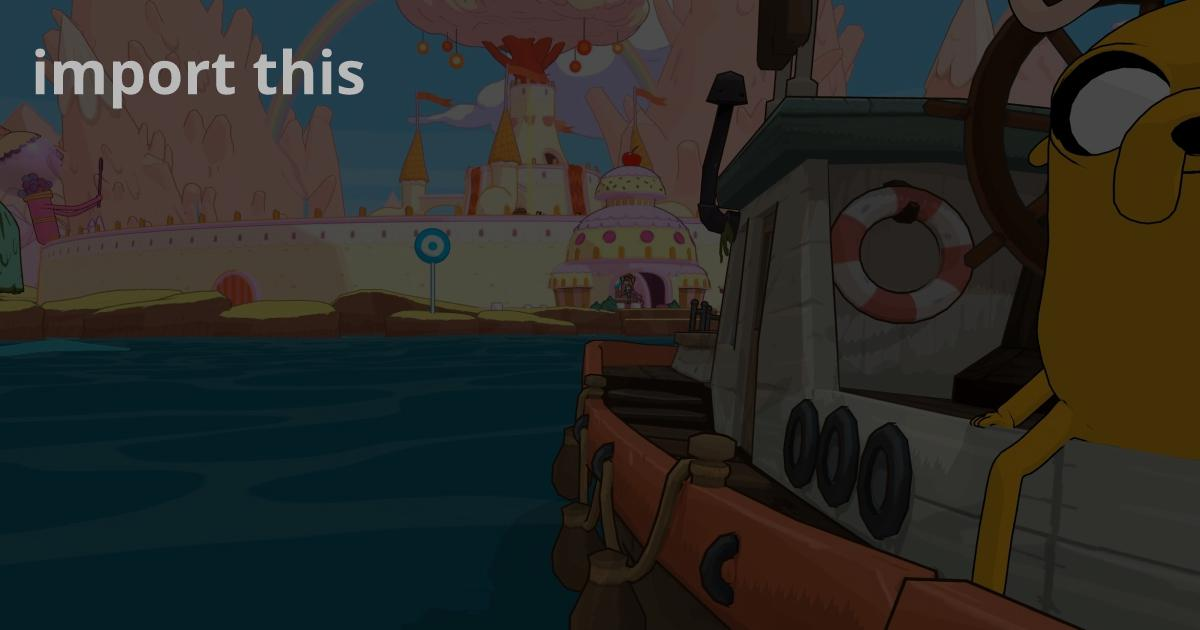
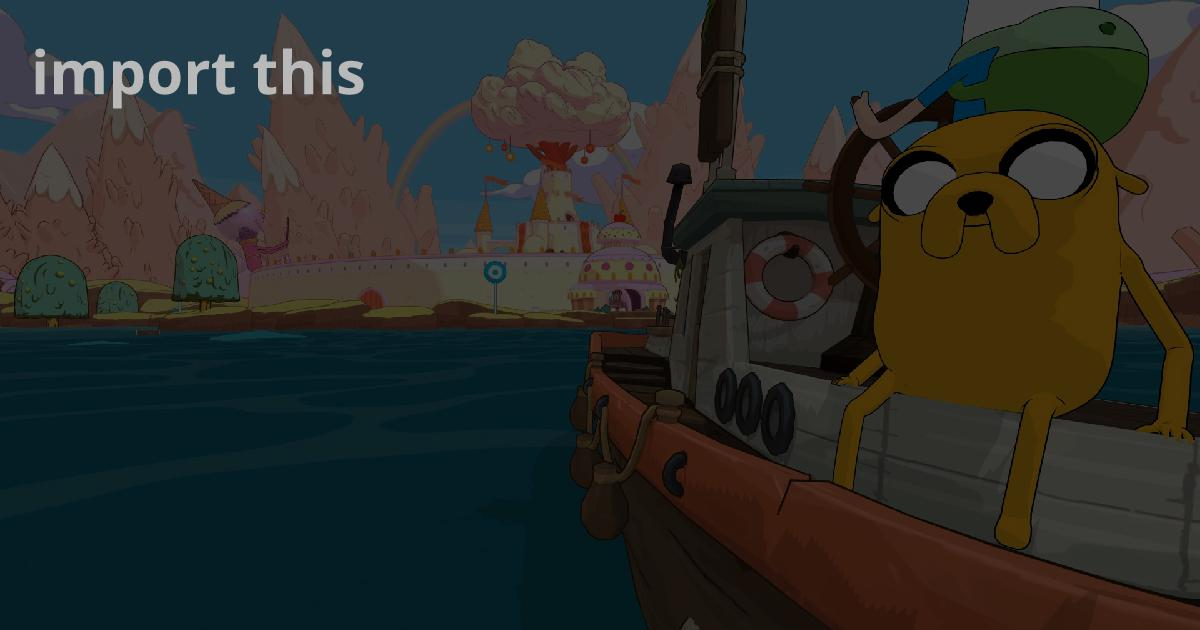
Fix image resize before crop.

diff --git a/snippet_image/size.py b/snippet_image/size.py
@@ -7,23 +7,33 @@ def resize_image_for_snippet(
     Crop and resize the image depending on the center and size.
     !!! Warning. Image argument is not immutable.
     """
+    image, center = resize_image(image, size, center=center)
     image = crop_image(image, size, center)
-    image = resize_image(image, size)
 
     return image
 
 
-def resize_image(image, size):
-    return image.resize(size)
-
-
-def crop_image(image, size, center=None):
+def resize_image(image, size, center=None):
     if center and (not isinstance(center, tuple) or not len(center) == 2):
         raise ValueError('Center must be tuple with 2 elements - tuple(x, y).')
 
     image_width, image_height = image.size
     width, height = size
+
+    scaling_factor = max([width / image_width, height / image_height])
+    scaling_width = int(image_width * scaling_factor)
+    scaling_height = int(image_height * scaling_factor)
+
     center = center or (int(image_width / 2), int(image_height / 2))
+    center_width, center_height = center
+    center = (center_width * scaling_factor, center_height * scaling_factor)
+
+    return image.resize((scaling_width, scaling_height)), center
+
+
+def crop_image(image, size, center):
+    image_width, image_height = image.size
+    width, height = size
 
     if image_width > width or image_height > height:
         half_width = int(width / 2)

diff --git a/tests/test_snippet_image.py b/tests/test_snippet_image.py
@@ -27,7 +27,7 @@ PURPOSE_IMAGE_WITH_EMPTY_TEXT = join(ASSERT_PATH, 'snippet-image-with-empty-text
 
 
 def test_version():
-    assert __version__ == '0.1.4'
+    assert __version__ == '0.1.5'
 
 
 def test_image_with_background():

diff --git a/snippet_image/__init__.py b/snippet_image/__init__.py
@@ -1,3 +1,3 @@
 from .image import create_snippet_image
 
-__version__ = '0.1.4'
+__version__ = '0.1.5'
